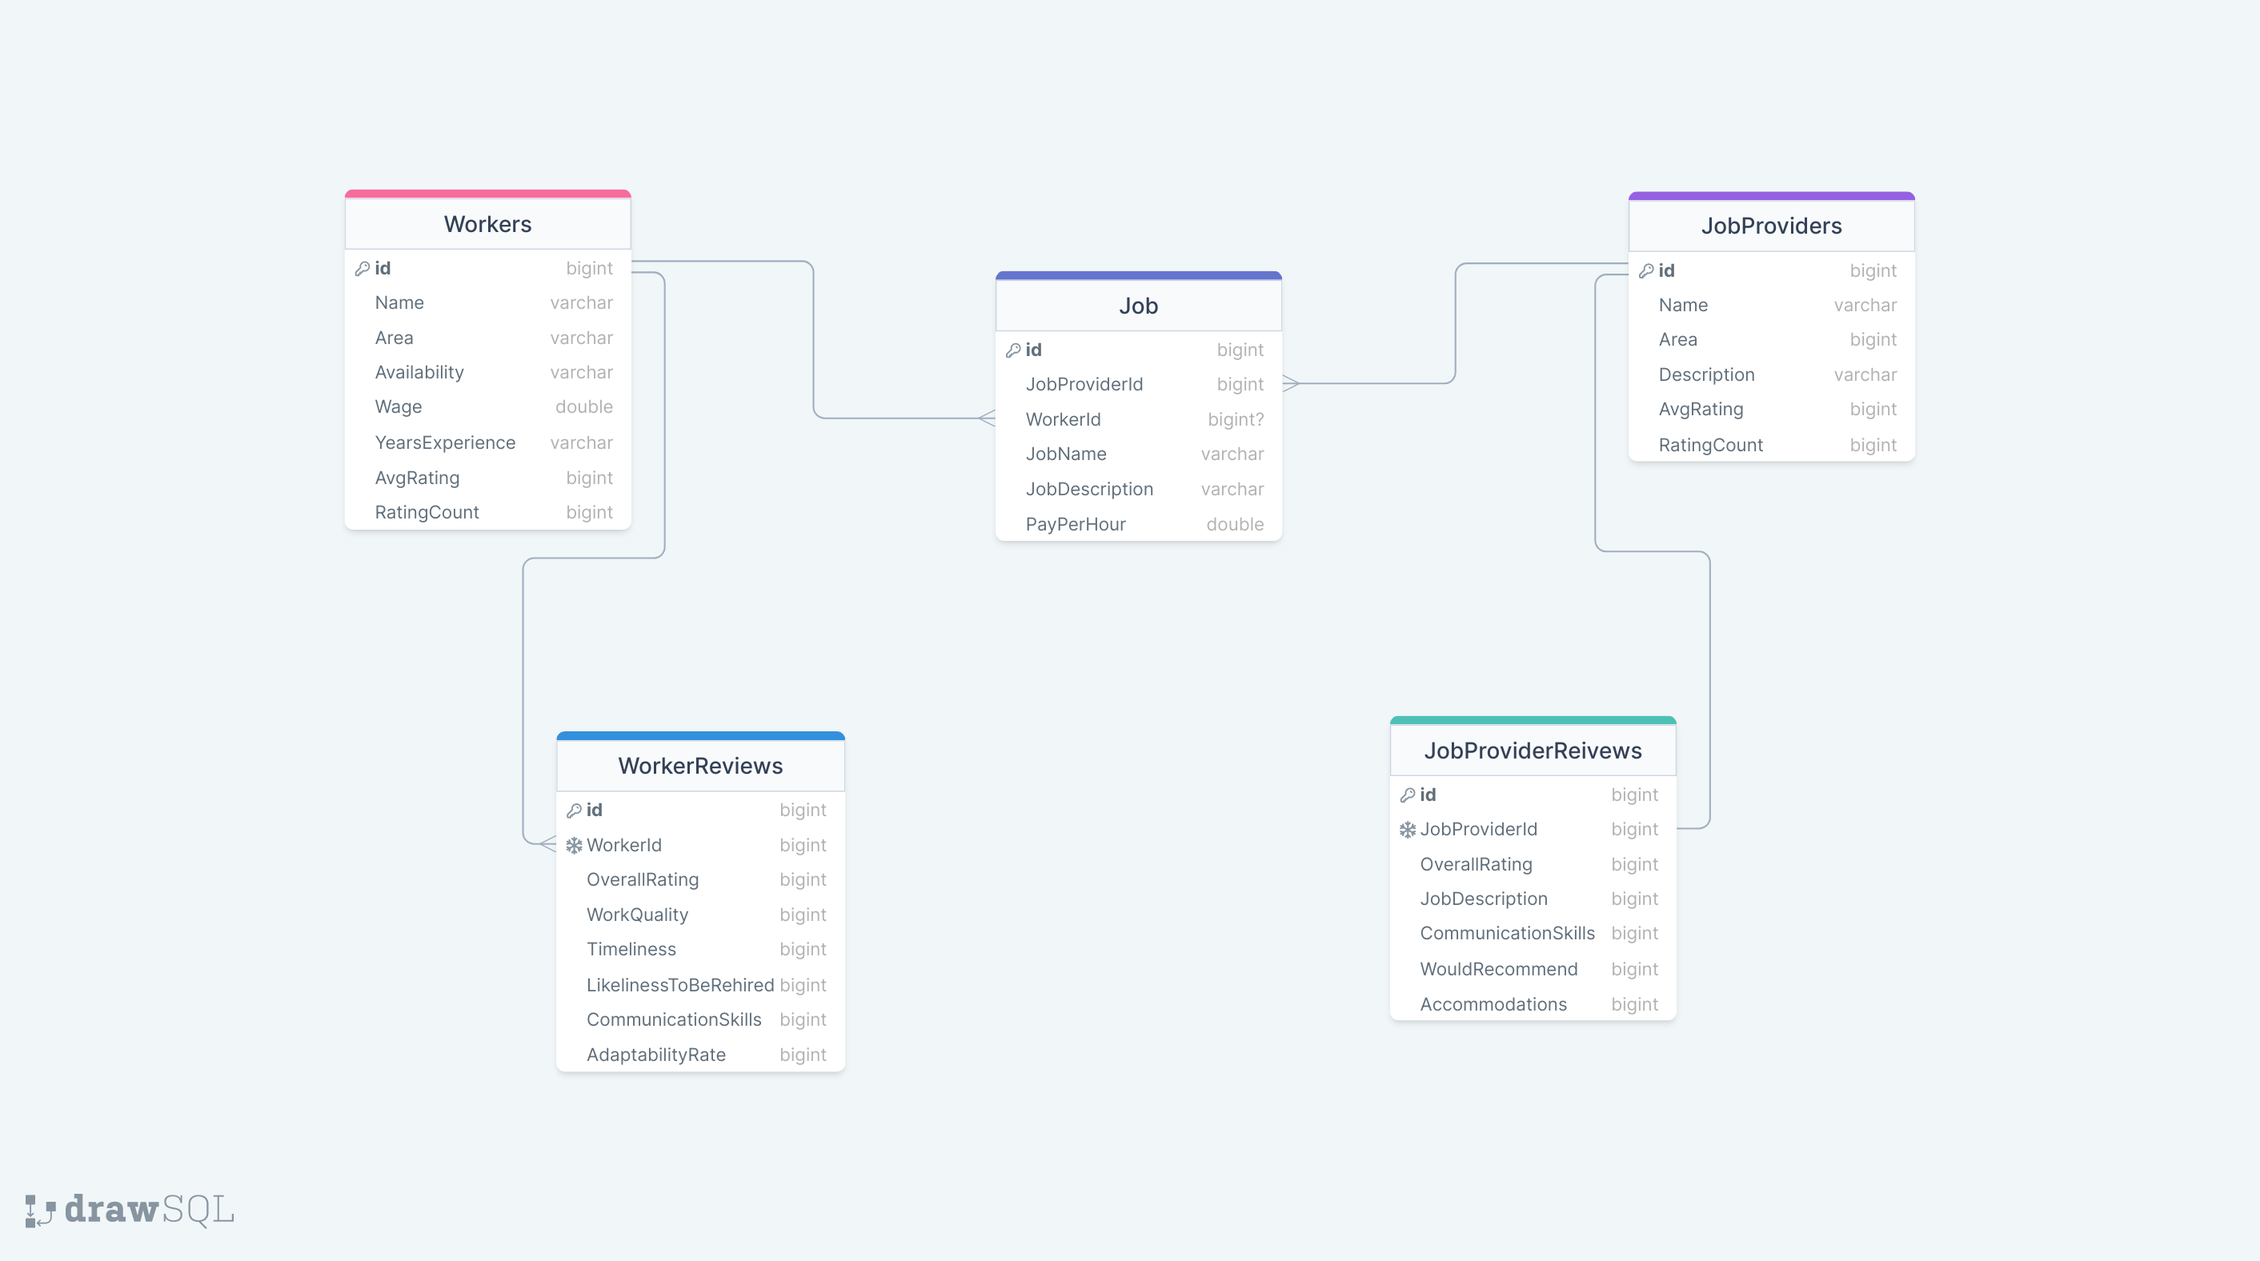
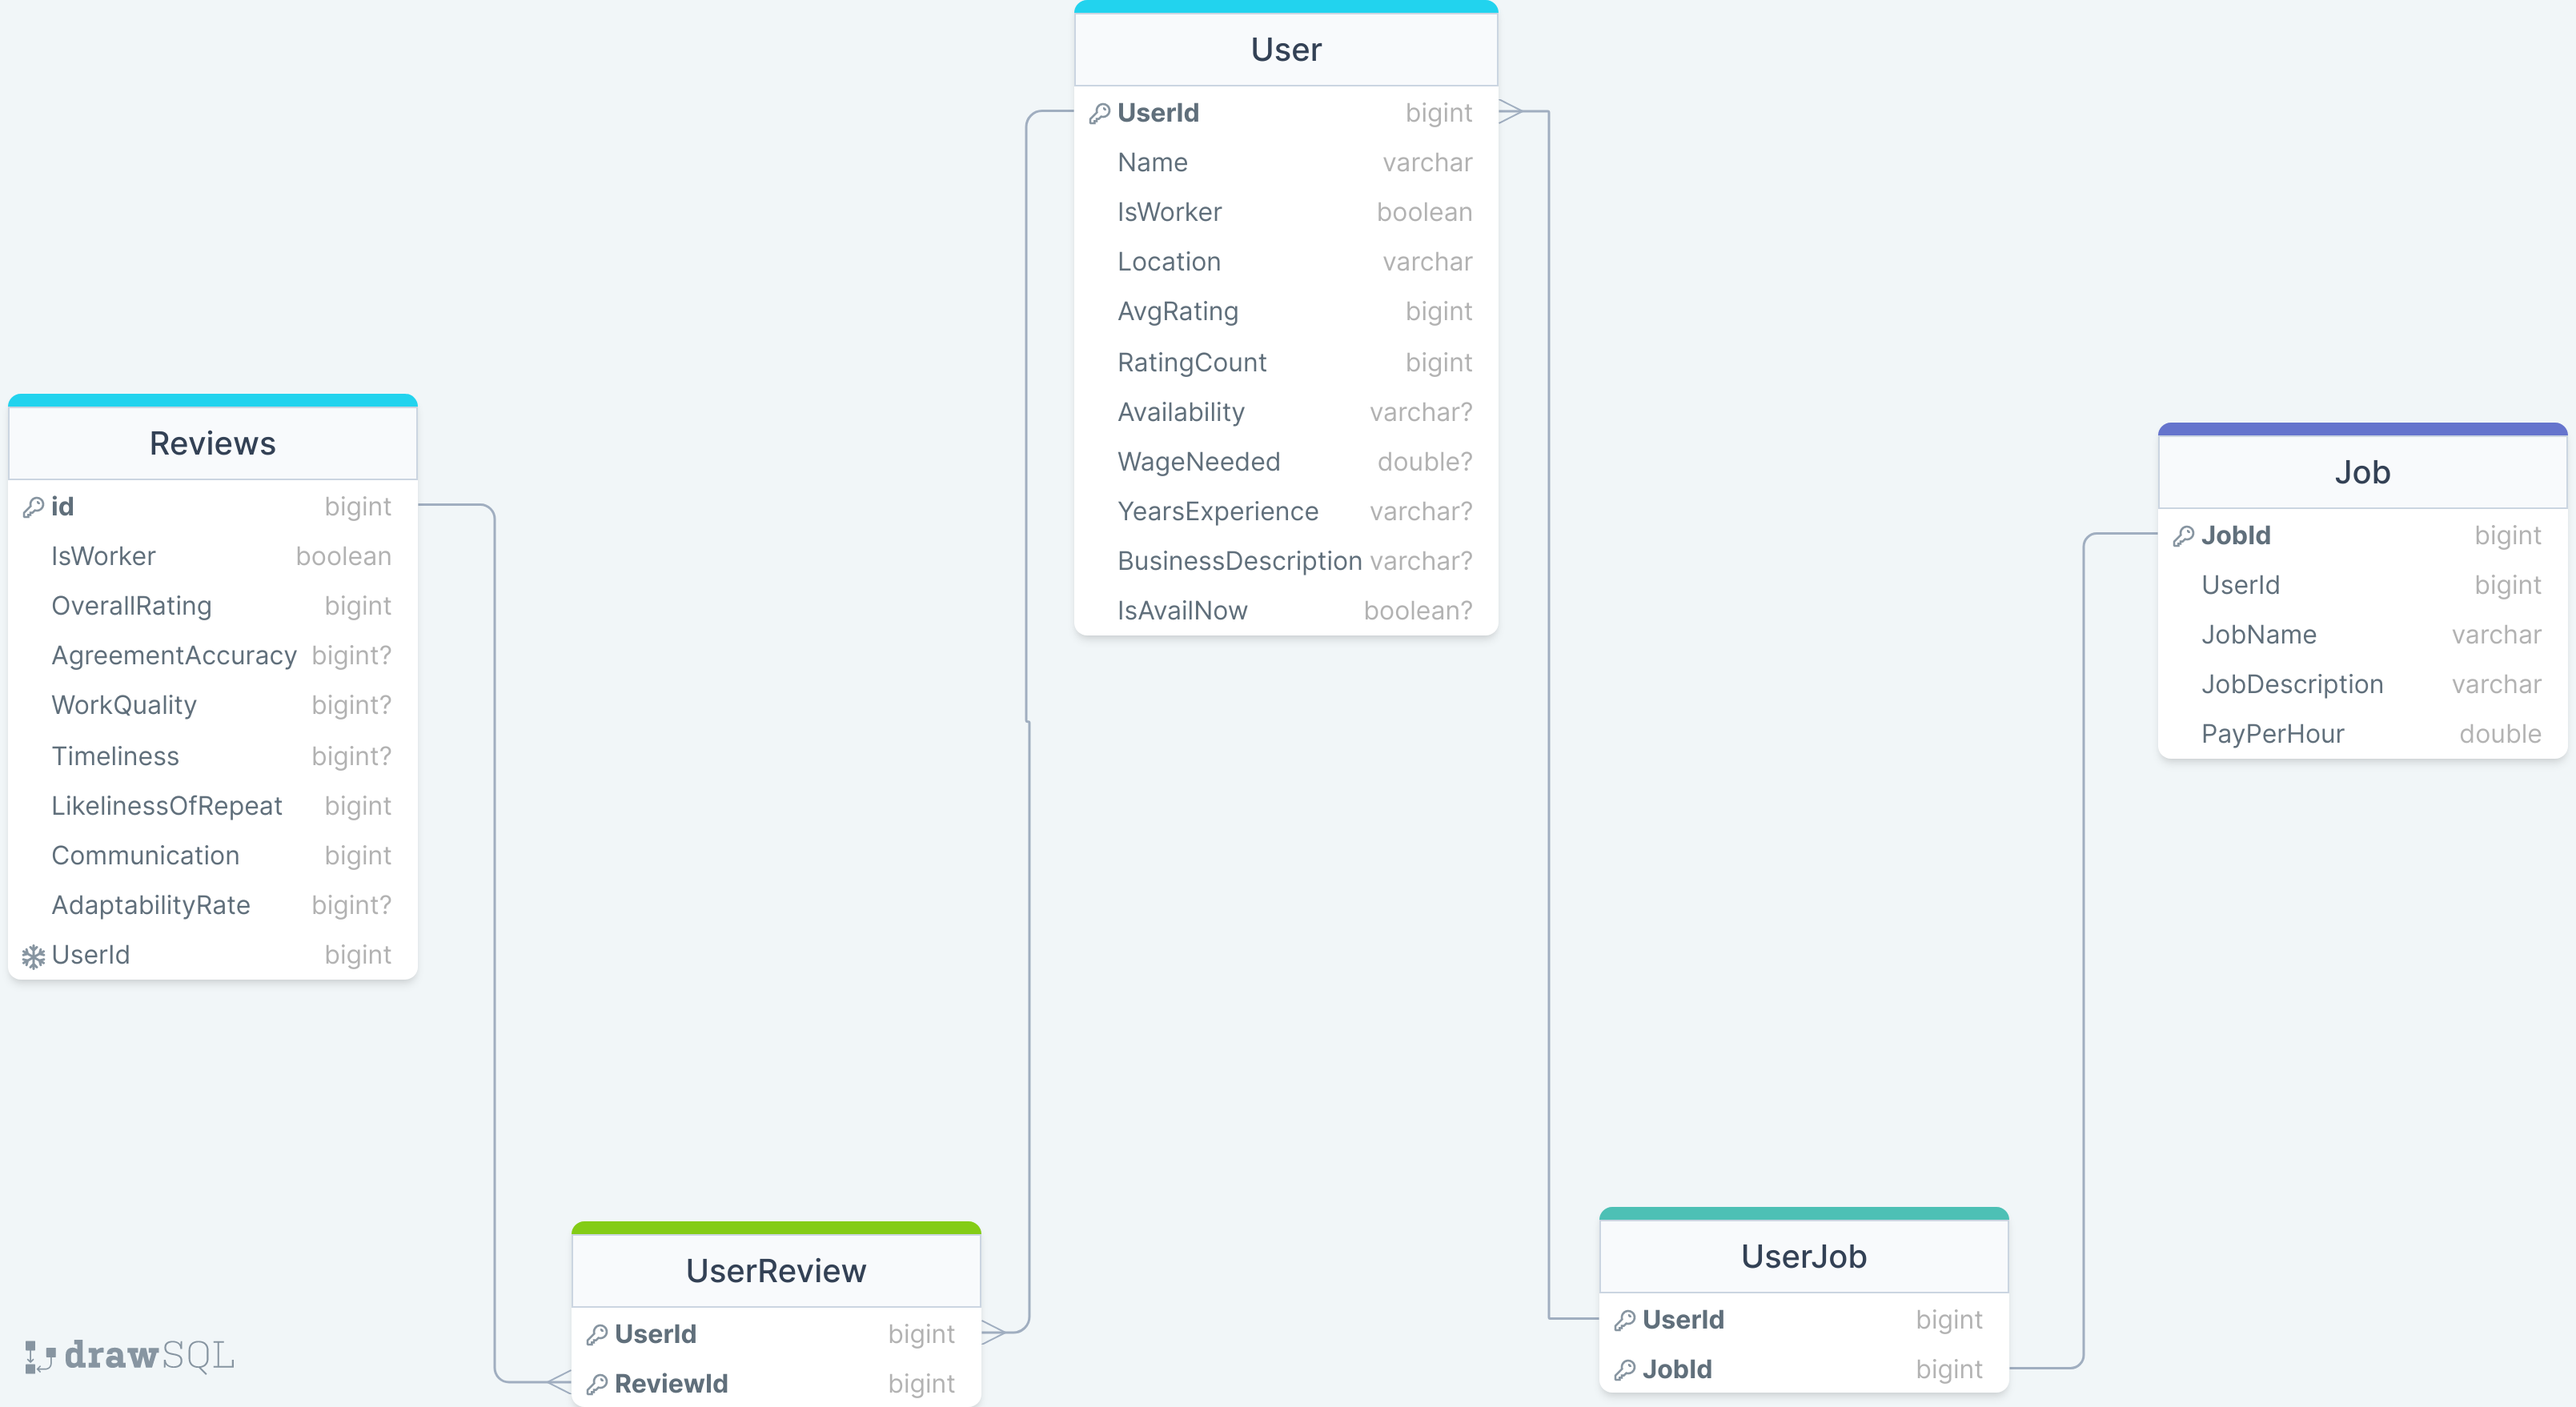
Adding Review and Job models, Updating User model with additional fields, Adding DTOs for display user, reviews and job.  Updating ApplicationDbContext to include new models.

diff --git a/FullStackAuth_WebAPI/Migrations/20231026144053_AddingCustomAuthorizationIsWorkerToUser.cs b/FullStackAuth_WebAPI/Migrations/20231026144053_AddingCustomAuthorizationIsWorkerToUser.cs
@@ -1,0 +1,69 @@
+using Microsoft.EntityFrameworkCore.Migrations;
+
+#nullable disable
+
+#pragma warning disable CA1814 // Prefer jagged arrays over multidimensional
+
+namespace FullStackAuth_WebAPI.Migrations
+{
+    /// <inheritdoc />
+    public partial class AddingCustomAuthorizationIsWorkerToUser : Migration
+    {
+        /// <inheritdoc />
+        protected override void Up(MigrationBuilder migrationBuilder)
+        {
+            migrationBuilder.DeleteData(
+                table: "AspNetRoles",
+                keyColumn: "Id",
+                keyValue: "02826bcd-2b15-4c0a-8d85-281ade12b9b9");
+
+            migrationBuilder.DeleteData(
+                table: "AspNetRoles",
+                keyColumn: "Id",
+                keyValue: "59de2413-2986-49fa-a7ea-d2ee9bae8830");
+
+            migrationBuilder.AddColumn<bool>(
+                name: "IsWorker",
+                table: "AspNetUsers",
+                type: "tinyint(1)",
+                nullable: false,
+                defaultValue: false);
+
+            migrationBuilder.InsertData(
+                table: "AspNetRoles",
+                columns: new[] { "Id", "ConcurrencyStamp", "Name", "NormalizedName" },
+                values: new object[,]
+                {
+                    { "239f493b-e5aa-4694-a296-e380b93b2369", null, "Admin", "ADMIN" },
+                    { "3f5fe06a-5d66-4aa1-b694-9f917afefbb8", null, "User", "USER" }
+                });
+        }
+
+        /// <inheritdoc />
+        protected override void Down(MigrationBuilder migrationBuilder)
+        {
+            migrationBuilder.DeleteData(
+                table: "AspNetRoles",
+                keyColumn: "Id",
+                keyValue: "239f493b-e5aa-4694-a296-e380b93b2369");
+
+            migrationBuilder.DeleteData(
+                table: "AspNetRoles",
+                keyColumn: "Id",
+                keyValue: "3f5fe06a-5d66-4aa1-b694-9f917afefbb8");
+
+            migrationBuilder.DropColumn(
+                name: "IsWorker",
+                table: "AspNetUsers");
+
+            migrationBuilder.InsertData(
+                table: "AspNetRoles",
+                columns: new[] { "Id", "ConcurrencyStamp", "Name", "NormalizedName" },
+                values: new object[,]
+                {
+                    { "02826bcd-2b15-4c0a-8d85-281ade12b9b9", null, "Admin", "ADMIN" },
+                    { "59de2413-2986-49fa-a7ea-d2ee9bae8830", null, "User", "USER" }
+                });
+        }
+    }
+}

diff --git a/FullStackAuth_WebAPI/DataTransferObjects/UserForRegistrationDto.cs b/FullStackAuth_WebAPI/DataTransferObjects/UserForRegistrationDto.cs
@@ -5,13 +5,38 @@ namespace FullStackAuth_WebAPI.DataTransferObjects
     public class UserForRegistrationDto
     {
         //DTO used when registering
+        [Required(ErrorMessage = "First name is required.")]
         public string FirstName { get; set; }
-        public string LastName { get; set; }
+        
+        [Required(ErrorMessage = "Last name is required.")]
+        public string? LastName { get; set; }
+        
         [Required(ErrorMessage = "Username is required.")]
         public string UserName { get; set; }
+        
         [Required(ErrorMessage = "Password is required.")]
         public string Password { get; set; }
-        public string Email { get; set; }
-        public string PhoneNumber { get; set; }
+        
+        public string? Email { get; set; }
+        
+        public string? PhoneNumber { get; set; }
+        
+        [Required(ErrorMessage = "Must select user type")]
+        public bool IsWorker {  get; set; }
+       
+        public string? Availability { get; set; }
+
+        [Required]
+        public double WagePerHour { get; set; }
+        
+        public string? Experience { get; set; }
+        
+        public string? BusinessDescription { get; set; }     
+
+
+
+
+
+
     }
 }

diff --git a/FullStackAuth_WebAPI/Models/Review.cs b/FullStackAuth_WebAPI/Models/Review.cs
@@ -1,0 +1,40 @@
+using System.ComponentModel.DataAnnotations;
+using System.ComponentModel.DataAnnotations.Schema;
+using Microsoft.AspNetCore.Identity;
+using FullStackAuth_WebAPI.DataTransferObjects;
+using Microsoft.EntityFrameworkCore.Metadata.Internal;
+
+namespace FullStackAuth_WebAPI.Models
+
+{
+    public class Review
+    {
+        [Key]
+        public int Id { get; set; }
+       
+        [Required]
+        public int AdherenceToAgreement { get; set; }
+        
+        public int? WorkQuality { get; set; }
+        
+        public int Timeliness { get; set; }
+        
+        public int LikelinessOfRepeat { get; set; }
+        
+        public int Communication { get; set; }
+        
+        public  int? AdaptabilityRate { get; set; }
+
+        public bool IsWorker { get; set; } = true;
+
+
+        [ForeignKey("User")]
+        public string ReviewedUserId { get; set; }
+        public User User { get; set; }
+
+        [ForeignKey("User")]
+        public string ReviewMakerId { get; set; }
+        public User ReviewMaker { get; set; }
+
+    }
+}

diff --git a/FullStackAuth_WebAPI/Models/Job.cs b/FullStackAuth_WebAPI/Models/Job.cs
@@ -1,0 +1,40 @@
+using System.ComponentModel.DataAnnotations;
+using System.ComponentModel.DataAnnotations.Schema;
+using Microsoft.AspNetCore.Identity;
+using FullStackAuth_WebAPI.DataTransferObjects;
+using Microsoft.EntityFrameworkCore.Metadata.Internal;
+
+namespace FullStackAuth_WebAPI.Models
+{
+    public class Job
+    {
+        [Key]
+        public int Id { get; set; }
+       
+        [Required]
+        public string Location { get; set; }
+
+        [Required]
+        public string JobName { get; set; }
+
+        [Required]
+        public string SkillLevel { get; set; }
+
+        [Required]
+        public string JobDescription { get; set; }
+        
+        [Required]
+        public double PayPerHour { get; set; }
+
+        
+       
+        [ForeignKey("User")]
+        public string PostedByUserId { get; set; }
+        public User PostedByUser { get; set; }
+        
+        [ForeignKey("User")]
+        public string? AcceptedByUserId { get; set; }
+        public User AcceptedByUser { get; set; }
+
+    }
+}

diff --git a/FullStackAuth_WebAPI/Migrations/20231026144053_AddingCustomAuthorizationIsWorkerToUser.Designer.cs b/FullStackAuth_WebAPI/Migrations/20231026144053_AddingCustomAuthorizationIsWorkerToUser.Designer.cs
@@ -3,6 +3,7 @@ using System;
 using FullStackAuth_WebAPI.Data;
 using Microsoft.EntityFrameworkCore;
 using Microsoft.EntityFrameworkCore.Infrastructure;
+using Microsoft.EntityFrameworkCore.Migrations;
 using Microsoft.EntityFrameworkCore.Storage.ValueConversion;
 
 #nullable disable
@@ -10,9 +11,11 @@ using Microsoft.EntityFrameworkCore.Storage.ValueConversion;
 namespace FullStackAuth_WebAPI.Migrations
 {
     [DbContext(typeof(ApplicationDbContext))]
-    partial class ApplicationDbContextModelSnapshot : ModelSnapshot
+    [Migration("20231026144053_AddingCustomAuthorizationIsWorkerToUser")]
+    partial class AddingCustomAuthorizationIsWorkerToUser
     {
-        protected override void BuildModel(ModelBuilder modelBuilder)
+        /// <inheritdoc />
+        protected override void BuildTargetModel(ModelBuilder modelBuilder)
         {
 #pragma warning disable 612, 618
             modelBuilder

diff --git a/FullStackAuth_WebAPI/DataTransferObjects/UserForDisplayDto.cs b/FullStackAuth_WebAPI/DataTransferObjects/UserForDisplayDto.cs
@@ -8,6 +8,15 @@ namespace FullStackAuth_WebAPI.DataTransferObjects
         public string Id { get; set; }
         public string FirstName { get; set; }
         public string LastName { get; set; }
+        public bool IsWorker { get; set; }
         public string UserName { get; set; }
+        public string Area { get; set; }
+        public string SkillLevel { get; set; }
+        public string? Availability { get; set; }
+        public double WagePerHour { get; set; }
+        public string? Experience { get; set; }
+        public string? BusinessDescription { get; set; }
+        public bool? IsAvailNow { get; set; }
+        public List<DisplayReviewSummaryDto> ReviewsOfUser { get; set; }
     }
 }

diff --git a/FullStackAuth_WebAPI/Models/User.cs b/FullStackAuth_WebAPI/Models/User.cs
@@ -1,10 +1,20 @@
 using Microsoft.AspNetCore.Identity;
 
+
 namespace FullStackAuth_WebAPI.Models
 {
     public class User : IdentityUser
     {
         public string FirstName { get; set; }
         public string LastName { get; set; }
+        public bool IsWorker { get; set; }
+        public string Area { get; set; }
+        public string SkillLevel { get; set; }
+        public string? Availability { get; set; }
+        public double WagePerHour { get; set; }
+        public string? Experience { get; set; }
+        public string? BusinessDescription { get; set; }
+        public bool? IsAvailNow { get; set; }
+
     }
 }

diff --git a/FullStackAuth_WebAPI/DataTransferObjects/DisplayReviewSummaryDto.cs b/FullStackAuth_WebAPI/DataTransferObjects/DisplayReviewSummaryDto.cs
@@ -1,0 +1,19 @@
+using System.ComponentModel.DataAnnotations;
+
+namespace FullStackAuth_WebAPI.DataTransferObjects
+{
+    public class DisplayReviewSummaryDto
+    {
+        public int TotalReviewsJobs { get; set; }
+        public int AvgOverallScore { get; set; }
+        public int AvgAdherence { get; set;}
+        public int AvgQuality { get; set;}
+        public int AvgTimeliness { get; set; }
+        public int AvgWouldRepeat { get; set; }
+        public int AvgCommunication { get; set; }
+        public int? AvgAdaptability { get; set; }
+        public bool IsWorker { get; set; }
+
+    }
+}
+ 

diff --git a/FullStackAuth_WebAPI/DataTransferObjects/DisplayJobWithUserDto.cs b/FullStackAuth_WebAPI/DataTransferObjects/DisplayJobWithUserDto.cs
@@ -1,0 +1,16 @@
+using System.ComponentModel.DataAnnotations;
+
+namespace FullStackAuth_WebAPI.DataTransferObjects
+{
+    public class DisplayJobWithUserDto
+    {
+        public string Location { get; set; }
+        public string JobName { get; set; }
+        public string SkillLevel { get; set; }
+        public string JobDescription { get; set; }
+        public double PayPerHour { get; set; }
+        public bool IsActive { get; set; }
+
+        public UserForDisplayDto PostedByUser { get; set; }
+    }
+}

diff --git a/FullStackAuth_WebAPI/Data/ApplicationDbContext.cs b/FullStackAuth_WebAPI/Data/ApplicationDbContext.cs
@@ -8,6 +8,11 @@ namespace FullStackAuth_WebAPI.Data
     public class ApplicationDbContext : IdentityDbContext<User>
     {
         public DbSet<Car> Cars { get; set; }
+        public DbSet<Job> Jobs { get; set; }
+        public DbSet<Review> Reviews { get; set; }
+        public DbSet<User> Users { get; set; }
+
+
 
         public ApplicationDbContext(DbContextOptions options)
     : base(options)

diff --git a/FullStackAuth_WebAPI/DataTransferObjects/UserForAuthenticationDto.cs b/FullStackAuth_WebAPI/DataTransferObjects/UserForAuthenticationDto.cs
@@ -10,5 +10,7 @@ namespace FullStackAuth_WebAPI.DataTransferObjects
 
         [Required(ErrorMessage = "Password is required.")]
         public string Password { get; set; }
+
+        
     }
 }
